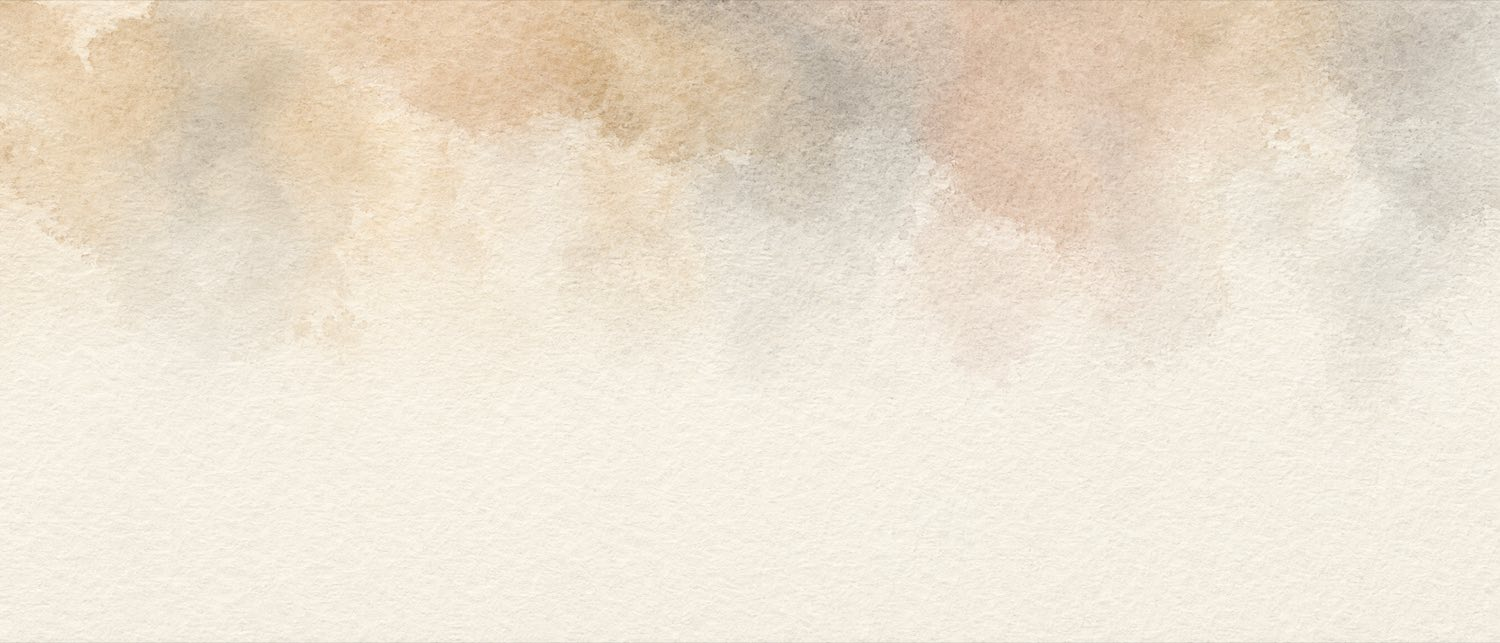
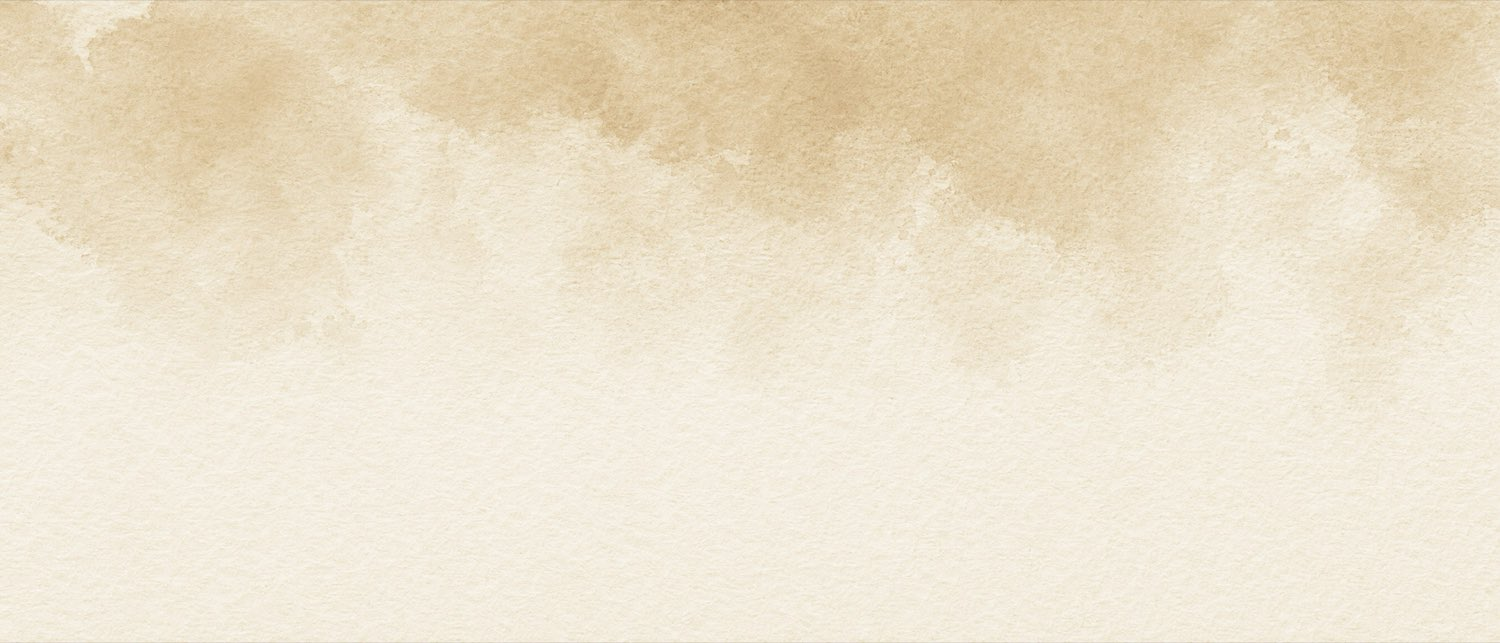
Sand watercolour alone, at full strength, under a header that scrolls away
The dot grid is gone — the wash carries the texture on its own now.

The wash itself is re-pigmented. Its darkest passages pooled a cool smoke
grey, and cool pigment on a ground this warm reads as a stain however faint
you make it, which is why it only worked at half opacity. Every level is now
mapped onto a warm ramp — wheat through dune to a soft umber — so the paint
is sand all the way down. With no grey left in it, it holds at opacity-75
and still reads as light rather than dirt.

The header is no longer sticky: it sits at the top of the document and
scrolls away, so a reader gets the whole viewport. The frost-on-scroll state
it wore while pinned goes with it.

Changed region(s): [[0.5213, 0.0311, 0.6133, 0.2488], [0.92, 0.0, 0.9813, 0.1555], [0.4907, 0.0, 0.5213, 0.0311]]

diff --git a/files/resources/css/site.css b/files/resources/css/site.css
@@ -17,9 +17,6 @@
        never a filled surface, which is always ink. */
     --color-accent: #8A5A34;
     --color-accent-ink: #FFFDF9;
-    /* The dot-paper grid. Barely darker than a hairline: at 1px on the canvas
-       it should read as texture, never as a pattern you can count. */
-    --color-dot: #DFD9CB;
     /* The one light that reads on the ink surface of a code block. */
     --color-code-ink: #EDE9E1;
 
@@ -91,58 +88,6 @@ body {
 .wash-frame-left {
     -webkit-mask-image: linear-gradient(to right, #000 0%, #000 38%, transparent 94%);
     mask-image: linear-gradient(to right, #000 0%, #000 38%, transparent 94%);
-}
-
-/* ---------------------------------------------------------------
-   Dot paper — the page texture.
-
-   Drawn with a gradient rather than photographed, so it stays exactly one
-   pixel crisp at any density, costs no bytes, and re-tints with the token.
-   It never covers a whole page: each field is masked down to the one corner
-   the reading column leaves empty, and dissolves to nothing well before it
-   reaches any text.
-   --------------------------------------------------------------- */
-.dot-field {
-    /* The falloff matters more than the radius: a hard stop renders as a
-       little square on a 2x screen, so the colour is carried out to a wider
-       transparent stop and the browser antialiases a round dot. */
-    background-image: radial-gradient(circle at center, var(--color-dot) 0.5px, transparent 1.6px);
-    background-size: 22px 22px;
-}
-
-.dot-fade-tr {
-    -webkit-mask-image: radial-gradient(105% 88% at 100% 0%, #000 0%, rgb(0 0 0 / 0.55) 34%, transparent 70%);
-    mask-image: radial-gradient(105% 88% at 100% 0%, #000 0%, rgb(0 0 0 / 0.55) 34%, transparent 70%);
-}
-
-.dot-fade-bl {
-    -webkit-mask-image: radial-gradient(100% 92% at 0% 100%, #000 0%, rgb(0 0 0 / 0.5) 36%, transparent 72%);
-    mask-image: radial-gradient(100% 92% at 0% 100%, #000 0%, rgb(0 0 0 / 0.5) 36%, transparent 72%);
-}
-
-/* The Now band is already a tinted slab, so its field runs the full width and
-   simply thins out across it rather than hiding in a corner. */
-.dot-fade-x {
-    -webkit-mask-image: linear-gradient(to left, #000 0%, rgb(0 0 0 / 0.35) 42%, transparent 88%);
-    mask-image: linear-gradient(to left, #000 0%, rgb(0 0 0 / 0.35) 42%, transparent 88%);
-}
-
-/* ---------------------------------------------------------------
-   The header is bare at the top of the page and frosts once content
-   starts sliding beneath it.
-   --------------------------------------------------------------- */
-.site-header {
-    border-bottom: 1px solid transparent;
-    transition:
-        background-color 300ms ease,
-        border-color 300ms ease,
-        backdrop-filter 300ms ease;
-}
-
-.site-header.is-stuck {
-    background-color: color-mix(in srgb, var(--color-canvas) 78%, transparent);
-    backdrop-filter: blur(14px) saturate(140%);
-    border-bottom-color: var(--color-line);
 }
 
 /* ---------------------------------------------------------------

diff --git a/files/public/js/main.js b/files/public/js/main.js
@@ -46,35 +46,6 @@
     }
 
     /* ---------------------------------------------------------------
-       The header frosts once the page slides beneath it. This is
-       legibility rather than decoration, so it runs whatever the motion
-       preference — only the transition is cosmetic.
-       --------------------------------------------------------------- */
-    var header = document.querySelector('[data-header]');
-
-    if (header) {
-        var stuck = null;
-        var headerTicking = false;
-
-        var frost = function () {
-            var next = window.scrollY > 8;
-            if (next !== stuck) {
-                stuck = next;
-                header.classList.toggle('is-stuck', next);
-            }
-            headerTicking = false;
-        };
-
-        window.addEventListener('scroll', function () {
-            if (headerTicking) return;
-            headerTicking = true;
-            window.requestAnimationFrame(frost);
-        }, { passive: true });
-
-        frost();
-    }
-
-    /* ---------------------------------------------------------------
        The wash drifts a little slower than the page. A shallow parallax
        only — enough to feel like depth, never enough to notice.
        --------------------------------------------------------------- */

diff --git a/files/resources/views/components/layouts/main.blade.php b/files/resources/views/components/layouts/main.blade.php
@@ -1,7 +1,6 @@
 @props([
     'title' => 'Theo Brandt — Design engineer',
     'description' => 'Design engineer in Copenhagen. I build interfaces, write about the parts that resist a process, and keep a short list of things I am working on.',
-    'showPattern' => '1',
     'wash' => '/images/wash-top.jpg',
     'showWash' => '1',
     'showPreviews' => '1',
@@ -24,14 +23,10 @@
     <a href="#main" class="sr-only focus:not-sr-only focus:fixed focus:top-4 focus:left-4 focus:z-50 focus:rounded-full focus:bg-ink focus:px-4 focus:py-2 focus:text-sm focus:text-canvas">Skip to content</a>
 
     @if ($showWash)
-        <div class="wash-frame-right pointer-events-none absolute top-0 right-0 -z-20 h-[34rem] w-[62%] max-w-3xl overflow-hidden" aria-hidden="true">
-            <img src="{{ $wash }}" alt="" width="1500" height="643" class="size-full object-cover object-[72%_30%] opacity-45" data-wash>
+        <div class="wash-frame-right pointer-events-none absolute top-0 right-0 -z-10 h-[34rem] w-[62%] max-w-3xl overflow-hidden" aria-hidden="true">
+            <img src="{{ $wash }}" alt="" width="1500" height="643" class="size-full object-cover object-[72%_30%] opacity-75" data-wash>
             <div class="wash-veil absolute inset-0"></div>
         </div>
-    @endif
-
-    @if ($showPattern)
-        <div class="dot-field dot-fade-tr pointer-events-none absolute inset-x-0 top-0 -z-10 h-[38rem]" aria-hidden="true"></div>
     @endif
 
     <x-nav/>

diff --git a/files/resources/views/components/sections/connect.blade.php b/files/resources/views/components/sections/connect.blade.php
@@ -3,20 +3,15 @@
     'intro' => 'I read everything and reply to most of it. Notes about something I wrote are especially welcome, particularly the ones telling me I am wrong.',
     'emailLabel' => 'theo@theobrandt.co',
     'anchor' => 'connect',
-    'showPattern' => '1',
     'wash' => '/images/wash-foot.jpg',
     'showWash' => '1',
 ])
 <section id="{{ $anchor }}" class="relative isolate overflow-hidden border-t border-line">
     @if ($showWash)
-        <div class="wash-frame-left pointer-events-none absolute bottom-0 left-0 -z-20 h-[26rem] w-[58%] max-w-2xl overflow-hidden" aria-hidden="true">
-            <img src="{{ $wash }}" alt="" width="1500" height="643" class="size-full object-cover object-[18%_62%] opacity-45">
+        <div class="wash-frame-left pointer-events-none absolute bottom-0 left-0 -z-10 h-[26rem] w-[58%] max-w-2xl overflow-hidden" aria-hidden="true">
+            <img src="{{ $wash }}" alt="" width="1500" height="643" class="size-full object-cover object-[18%_62%] opacity-75">
             <div class="wash-veil-up absolute inset-0"></div>
         </div>
-    @endif
-
-    @if ($showPattern)
-        <div class="dot-field dot-fade-bl pointer-events-none absolute inset-0 -z-10" aria-hidden="true"></div>
     @endif
 
     <div class="mx-auto max-w-3xl px-6 py-16 md:py-24">

diff --git a/files/resources/views/components/sections/now-strip.blade.php b/files/resources/views/components/sections/now-strip.blade.php
@@ -6,13 +6,8 @@
     'linkLabel' => 'The rest of the list',
     'linkUrl' => '/now',
     'showLink' => '1',
-    'showPattern' => '1',
 ])
-<section class="relative isolate overflow-hidden border-y border-line bg-raised">
-    @if ($showPattern)
-        <div class="dot-field dot-fade-x pointer-events-none absolute inset-0 -z-10" aria-hidden="true"></div>
-    @endif
-
+<section class="border-y border-line bg-raised">
     <div class="mx-auto max-w-3xl px-6 py-16 md:py-20">
         <div class="flex items-baseline justify-between gap-6">
             <h2 class="display-section reveal font-display font-semibold text-balance">{{ $label }}</h2>

diff --git a/files/resources/views/components/nav.blade.php b/files/resources/views/components/nav.blade.php
@@ -1,7 +1,7 @@
 @props([
     'showName' => '1',
 ])
-<header class="site-header sticky top-0 z-20" data-header>
+<header>
     <div class="mx-auto flex h-16 max-w-3xl items-center gap-3 px-6">
         <a href="/" aria-label="Homepage" class="flex shrink-0 items-center rounded-full py-2.5 font-display text-base font-semibold tracking-tight hover:text-accent focus-visible:outline-2 focus-visible:outline-offset-4 focus-visible:outline-accent">
             @if ($showName)

diff --git a/files/resources/views/pages/404.blade.php b/files/resources/views/pages/404.blade.php
@@ -1,3 +1,3 @@
-<x-layouts.main title="Not found — Theo Brandt" description="That page does not exist." showPattern="0" showWash="0">
+<x-layouts.main title="Not found — Theo Brandt" description="That page does not exist." showWash="0">
     <x-sections.not-found/>
 </x-layouts.main>

diff --git a/files/resources/design.md b/files/resources/design.md
@@ -1,16 +1,15 @@
 # Sand — design system
 
 ## Atmosphere
-One sheet of off-white paper, held to a narrow column, with two textures
-fading in at the corner the reading column leaves empty — top-right of every
-page, bottom-left of the closing block. A **dot-paper grid** drawn in CSS
-(never photographed, so it stays one pixel crisp at any density and costs
-nothing to download) sits over a **pale sand watercolour** at `opacity-45`,
-roughly half the strength the paint first carried: on a page this light,
-anything stronger stops reading as light and starts reading as a stain. The
-dot grid also thins across the Now band, where the wash does not go. Both are
-masked off the reading column, and each has its own toggle. Nothing is
-boxed. Sibling content is separated by hairlines and whitespace,
+One sheet of off-white paper, held to a narrow column, with a **sand
+watercolour** fading in at the corner the reading column leaves empty —
+top-right of every page, bottom-left of the closing block. The paint is warm
+all the way down its range: wheat through dune to a soft umber in the deepest
+pools, with no grey anywhere. That is what lets it sit at `opacity-75` and
+still read as light on paper; a wash with cool pigment in it reads as a stain
+on a ground this warm, however faint you make it. Both washes are masked off
+the reading column, so body copy is always on bare paper, and each has its own
+toggle. Nothing is boxed. Sibling content is separated by hairlines and whitespace,
 never by cards. The site is really one interaction repeated — a list row you
 want to hover — and everything else gets out of its way.
 
@@ -26,9 +25,7 @@ want to hover — and everything else gets out of its way.
 | line | `#E8E3D8` | hairlines and dividers |
 | accent | `#8A5A34` | warm clay — link hover, the live dot, focus rings |
 | accent-ink | `#FFFDF9` | text on accent |
-| dot | `#DFD9CB` | the dot-paper grid |
 
-The two washes are the only photographs in the chrome; everything else is drawn.
 | code-ink | `#EDE9E1` | the one light that reads on a code block |
 
 **Every filled surface is ink, never accent.** The accent is a spice: it
@@ -62,8 +59,9 @@ mobile menu, `rounded-full` for the one pill, `min(1vw,10px)` for images.
 
 ## Components
 The header carries the name and the links and nothing else — the avatar
-appears once, in the homepage hero, and is never repeated in the bar. The bar
-is bare at the top of the page and frosts once content slides beneath it.
+appears once, in the homepage hero, and is never repeated in the bar. It is
+**not sticky**: it sits at the top of the document and scrolls away with it,
+so a reader gets the whole viewport for the writing.
 
 **Every row on the site reads the same way: the thing you came for on the
 left, its meta right-aligned opposite.** Writing, projects, the timeline, and
@@ -102,7 +100,6 @@ on anything that is not a link.
     --color-line: #E8E3D8;
     --color-accent: #8A5A34;
     --color-accent-ink: #FFFDF9;
-    --color-dot: #DFD9CB;
     --color-code-ink: #EDE9E1;
 
     --font-display: "Schibsted Grotesk", ui-sans-serif, system-ui, sans-serif;
